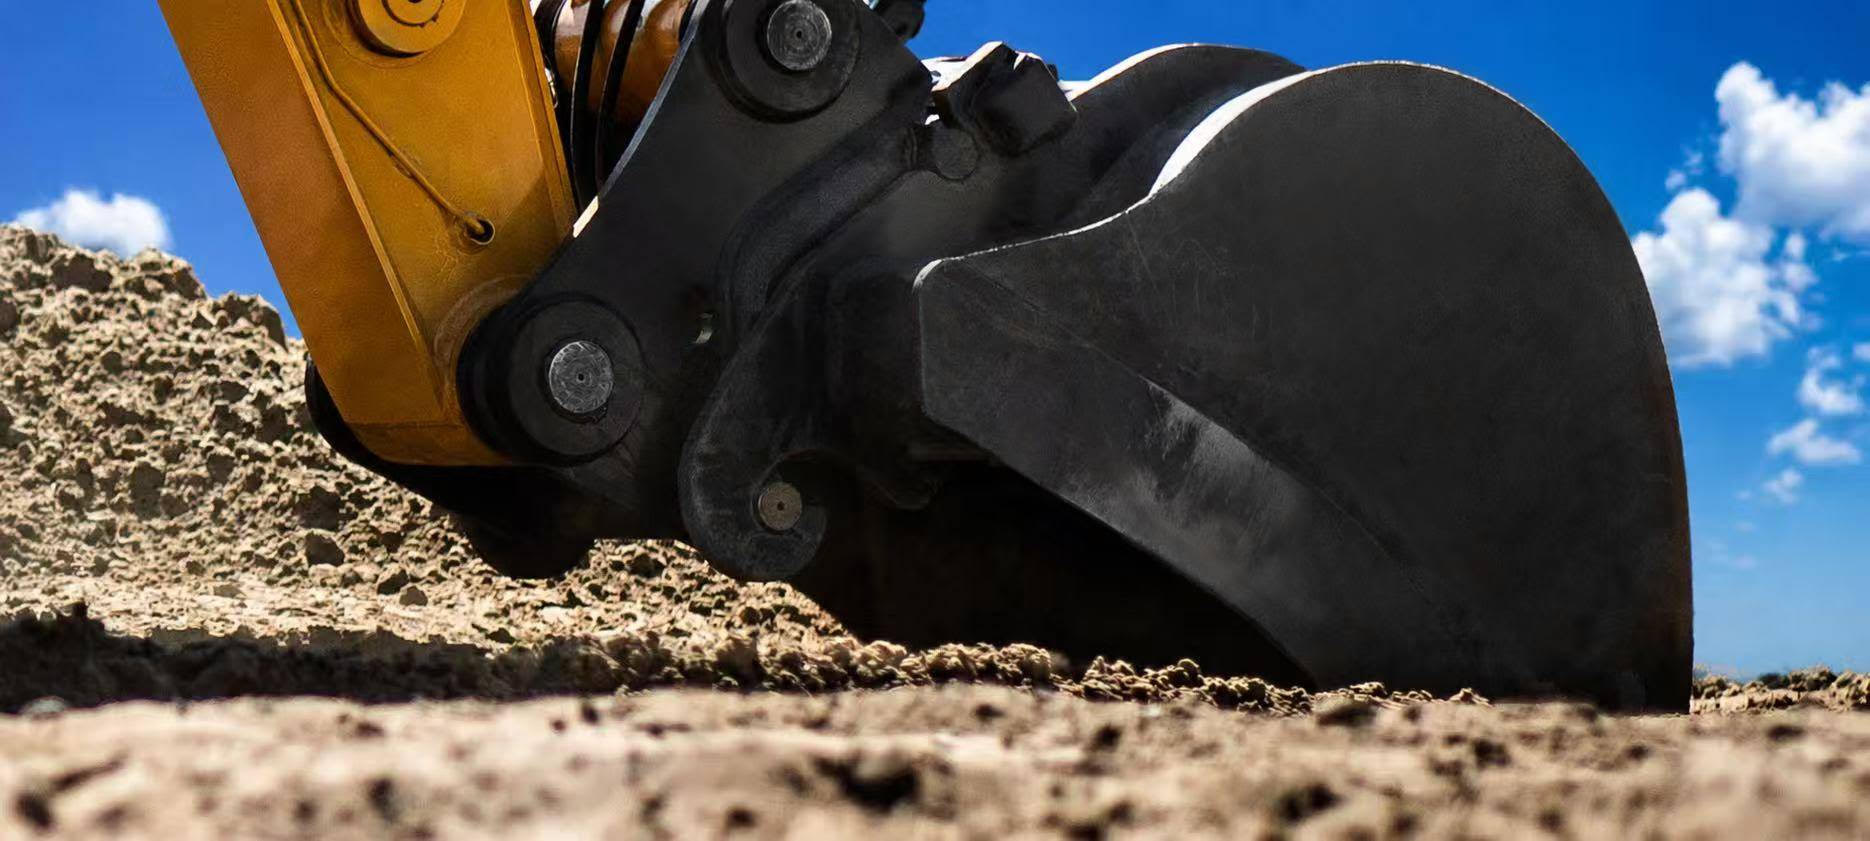
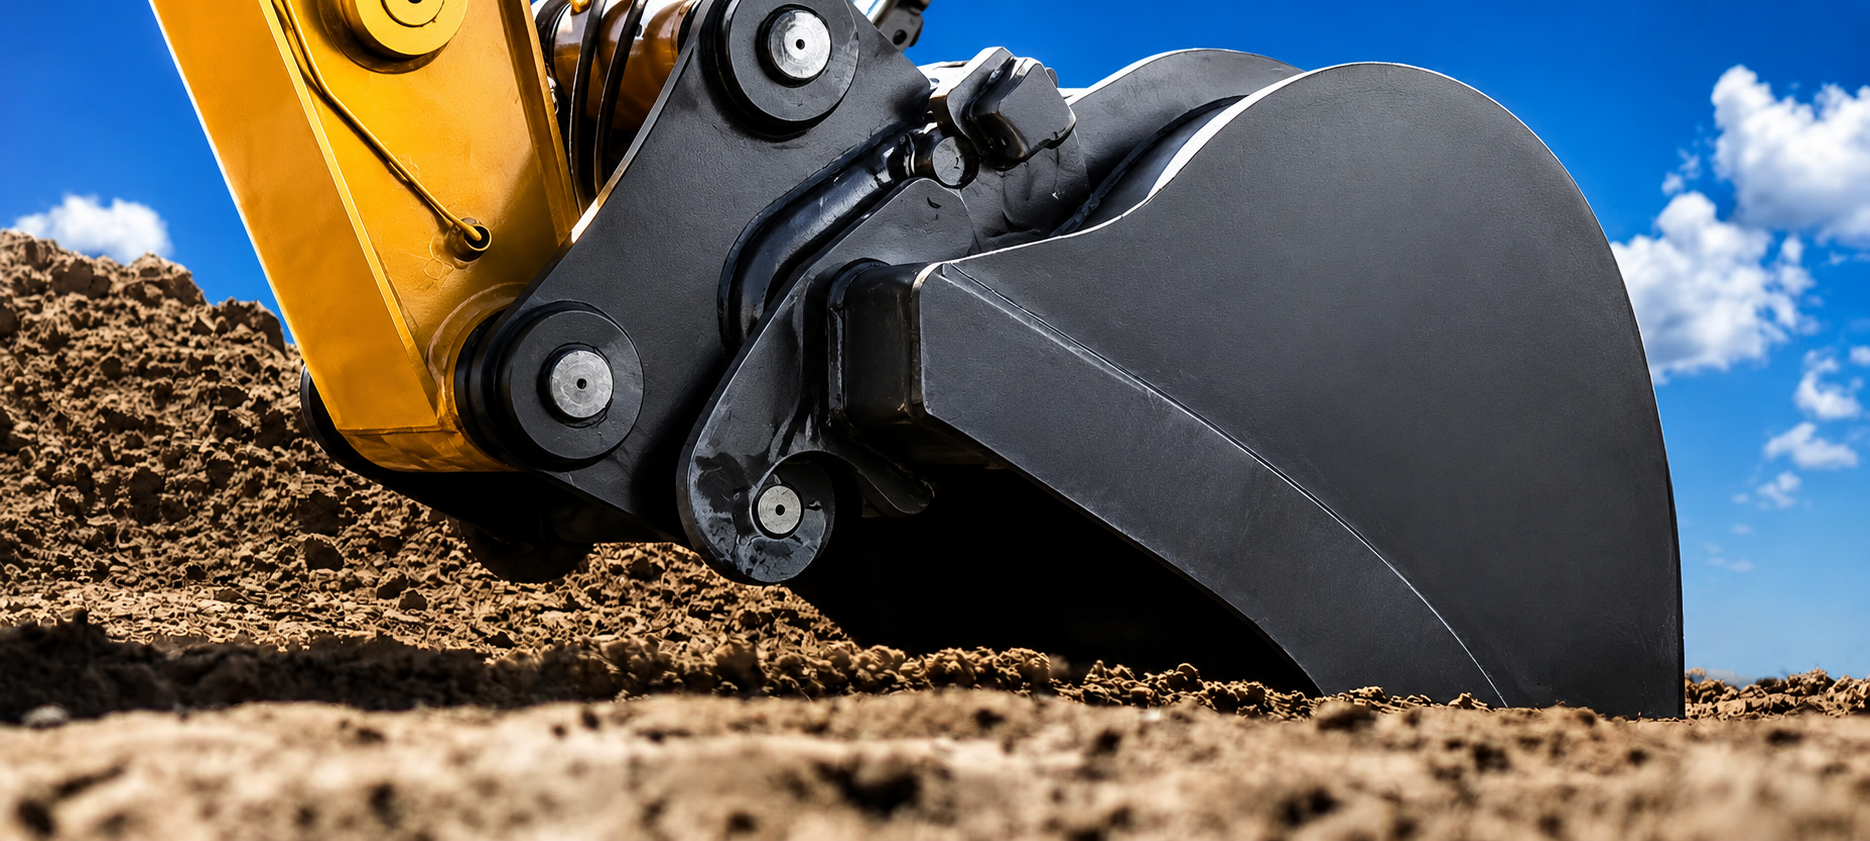
feat: Enhance product filtering logic and UI; add loading state and improve layout structure

diff --git a/resources/views/livewire/product-filters.blade.php b/resources/views/livewire/product-filters.blade.php
@@ -20,6 +20,7 @@
         localConnection: '{{ $connection }}',
         localMachineClass: '{{ $machine_class }}',
         init() {
+            this.filterSubcategories();
             this.$watch('localCategory', (value, oldValue) => {
                 this.filterSubcategories();
             });
@@ -118,7 +119,7 @@
                     <button type="button" @click="applyFilters()" wire:loading.attr="disabled"
                         class="inline-flex items-center gap-2 bg-black hover:bg-gray-800 transition-colors text-white font-medium text-sm px-6 py-2.5 rounded-lg disabled:opacity-50 disabled:cursor-not-allowed">
                         <span wire:loading.remove.delay.200>Apply Filters</span>
-                    
+
                     </button>
                     @if ($search || $category || $subcategory || $connection || $machine_class)
                         <button type="button" wire:click="clearFilters" wire:loading.attr="disabled"
@@ -131,17 +132,15 @@
         </div>
     </div>
 
-    <div wire:loading.delay.longest wire:target="applyFilters, search" class="flex items-center justify-center py-12">
-        <svg class="h-8 w-8 animate-spin text-gray-400" fill="none" viewBox="0 0 24 24">
-            <circle class="opacity-25" cx="12" cy="12" r="10" stroke="currentColor" stroke-width="4" />
-            <path class="opacity-75" fill="currentColor" d="M4 12a8 8 0 018-8V0C5.373 0 0 5.373 0 12h4z" />
+    <div wire:loading.delay.longest wire:target="applyFilters, search" class="fixed inset-0 z-50 flex flex-col items-center justify-center bg-white/95">
+        <svg class="h-16 w-auto animate-pulse" viewBox="0 0 120 40" fill="none" xmlns="http://www.w3.org/2000/svg">
+            <text x="0" y="32" font-family="Inter, system-ui, sans-serif" font-size="32" font-weight="800" fill="#0b5cab" letter-spacing="-0.5">BWT</text>
         </svg>
-        <span class="ml-3 text-gray-500 text-sm">Loading products...</span>
     </div>
 
     <div wire:loading.remove.delay.longest wire:target="applyFilters, search">
         @if ($products->count())
-            <div class="grid grid-cols-1 sm:grid-cols-2 lg:grid-cols-4 gap-6">
+            <div class="grid grid-cols-1 sm:grid-cols-2 lg:grid-cols-3 xl:grid-cols-4 gap-6">
                 @foreach ($products as $product)
                     @php $img = $product->getFirstMediaUrl('images'); @endphp
                     <div class="product-card bg-white rounded-md shadow-sm overflow-hidden flex flex-col transition-all duration-300 hover:shadow-lg hover:-translate-y-1">
@@ -192,10 +191,6 @@
 
             <div class="mt-8">
                 {{ $products->links() }}
-            </div>
-        @else
-            <div class="text-center text-gray-500 py-16 text-lg">
-                No products match your search.
             </div>
         @endif
     </div>

diff --git a/resources/views/components/layouts/public.blade.php b/resources/views/components/layouts/public.blade.php
@@ -1,6 +1,8 @@
 <x-layouts.base class="bg-gray-50 text-gray-900 antialiased" x-data="{ mobileMenu: false }">
-    <x-partials.public.header />
-    {{ $slot }}
-    <x-partials.public.footer />
+    <div class="min-h-screen flex flex-col">
+        <x-partials.public.header />
+        {{ $slot }}
+        <x-partials.public.footer />
+    </div>
 
 </x-layouts.base>

diff --git a/app/Livewire/ProductFilters.php b/app/Livewire/ProductFilters.php
@@ -60,7 +60,8 @@ class ProductFilters extends Component
             'status' => '1',
         ]);
 
-        $products = $productService->paginate(12, $filters);
+        $hasFilters = $this->search !== '' || $this->category !== '' || $this->subcategory !== '' || $this->connection !== '' || $this->machine_class !== '';
+        $products = $hasFilters ? $productService->paginate(12, $filters) : collect();
         $categories = Category::query()->orderBy('name')->pluck('name', 'slug')->toArray();
         $subcategories = Subcategory::query()
             ->with('category:id,name,slug')
@@ -68,7 +69,7 @@ class ProductFilters extends Component
             ->get(['id', 'name', 'slug', 'category_id']);
         $connections = Connection::query()->orderBy('name')->pluck('name', 'slug')->toArray();
 
-        return view('livewire.product-filters', compact('products', 'categories', 'subcategories', 'connections'));
+        return view('livewire.product-filters', compact('products', 'categories', 'subcategories', 'connections', 'hasFilters'));
     }
 
     private function resolveSlug(string $modelClass, ?string $value): ?string